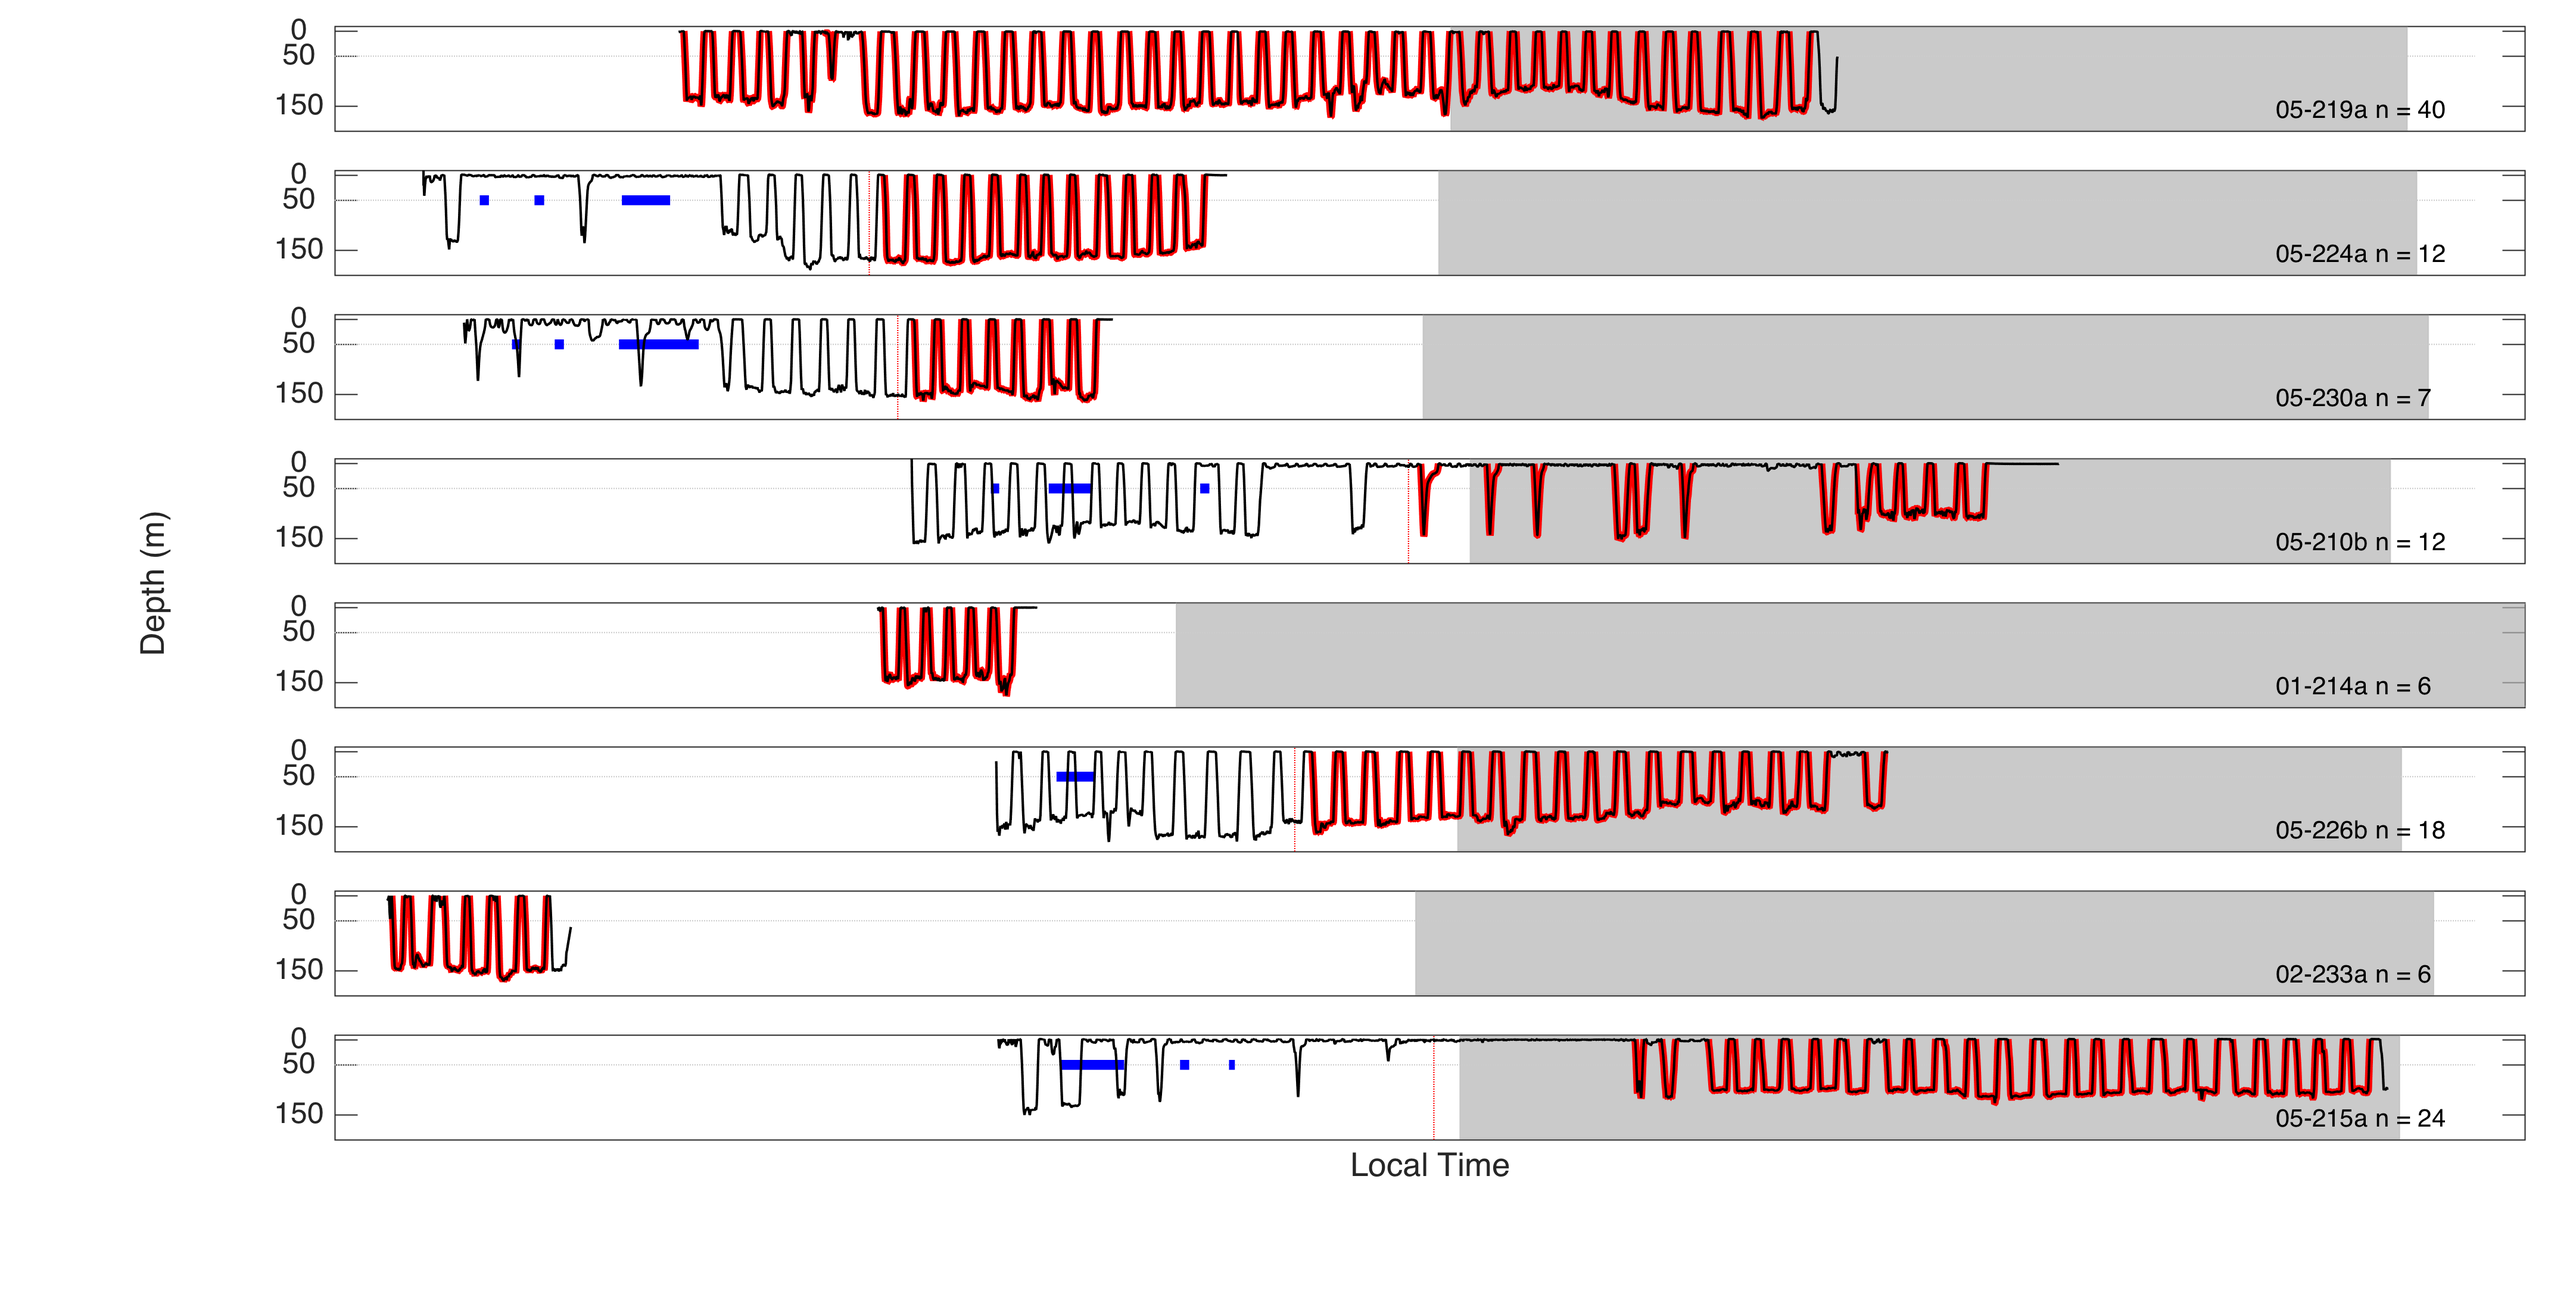
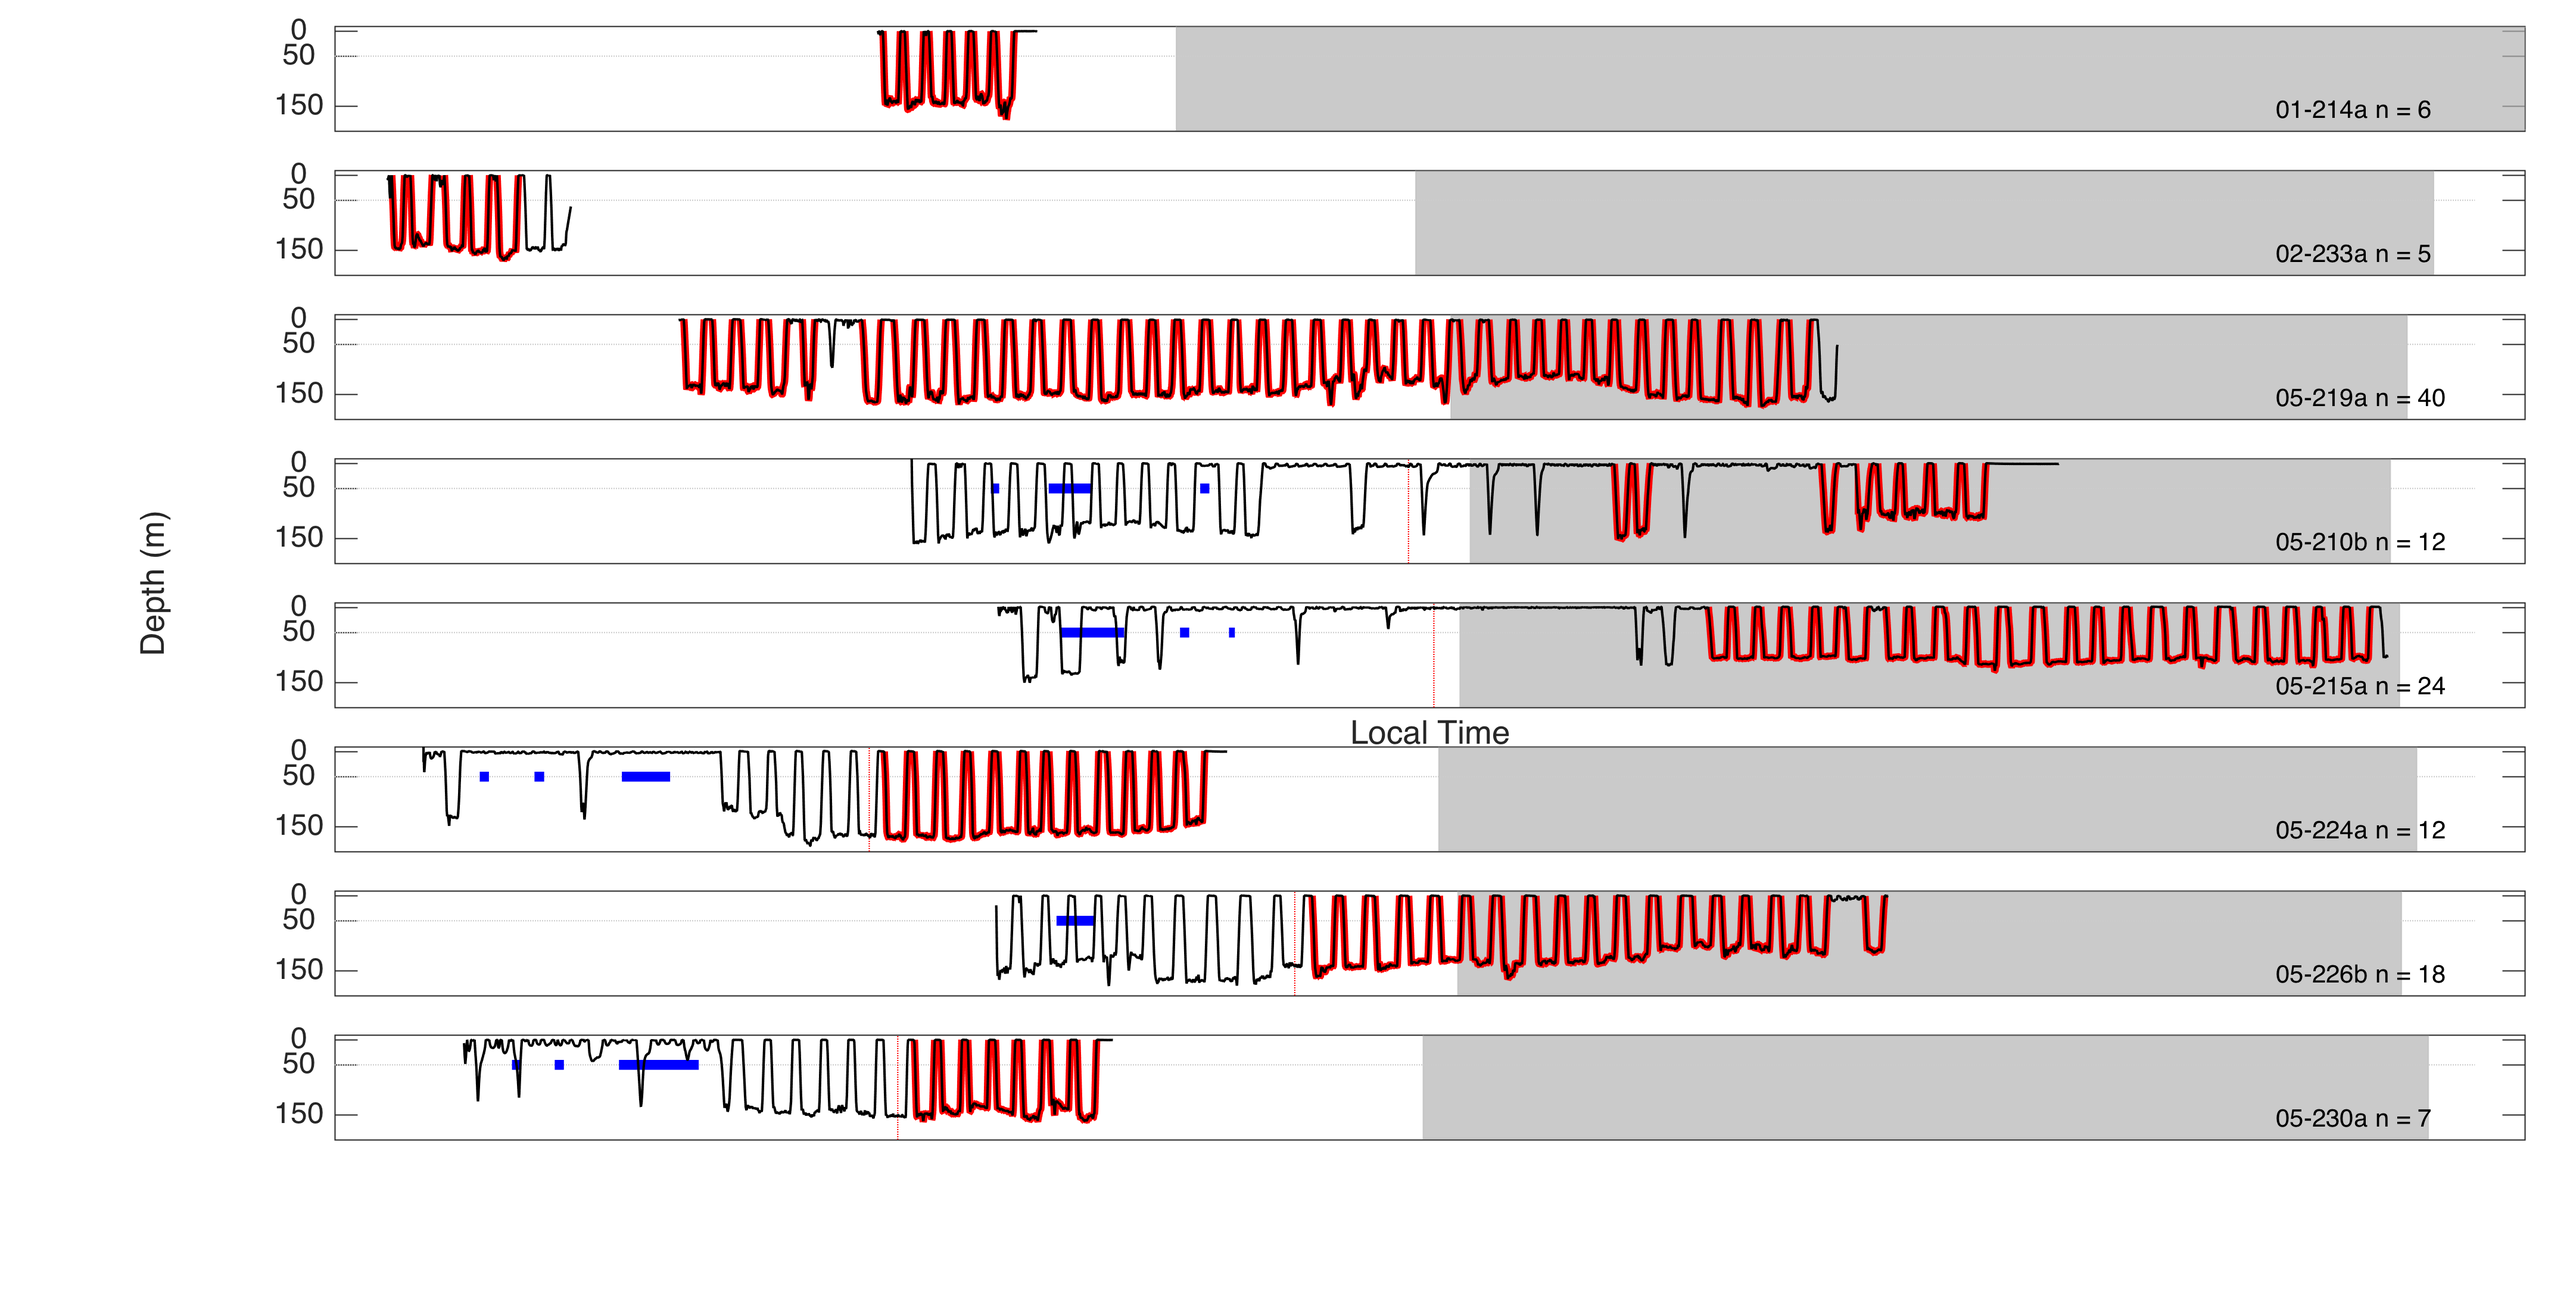
reorder figure to match table

diff --git a/NARW_plotAlldives.m b/NARW_plotAlldives.m
@@ -4,12 +4,13 @@ clear, close all, warning off
 load('NARW_foraging_tags')
 % 7 is playback start/end time; 000000 = no playbacks
 % 8 is analysis start time (2h after end last playback)
+% 9 is dives to analyze 
 %%
 allddur = nan(10,40); allnstops = nan(10,40);
 mnboutdur = nan(10,40);
 tagc = viridis(10); % color for tags
 %%
-for i = 1:length(tags)
+for i = 1:size(tags,1)
     tag = tags{i};
     loadprh(tag);
     
@@ -21,7 +22,7 @@ for i = 1:length(tags)
    
     % plot by time of day
     figure(100),
-    subplot('position',[0.13 1.01-(i*0.11) 0.85 0.08]), hold on, box on
+    subplot('position',[0.13 1.01-(tags{i,13}*0.11) 0.85 0.08]), hold on, box on
     UTC = tags{i,2}(4:end);
     % add sunrise and sunset
     [sun_rise,sun_set] = sunRiseSet(44.55,-66.4,-4,datestr(datenum(tags{i,2}(1:3))));
@@ -53,14 +54,16 @@ for i = 1:length(tags)
     % how many dives > 50 m
     T = finddives(p,fs,50,1);
     d2after = find(T(:,1) > astartcue/fs); % find T after start cue only 
+    if i == 7, d2after = d2after(1:end-1); end 
+    tags{i,9} = d2after; % store 
     ddur = T(:,2)-T(:,1); % calculate duration of all dives
     
     % put this here but only after astartcue 
     for j = d2after'
-    %         if ~isempty(dive(j).vperblock)
+            if ~isempty(dive(j).vperblock)
                 dcue = T(j,1):T(j,2); % time in seconds
                  plot((UTC(1)+UTC(2)/60+UTC(3)/3600)+(T(j,1):T(j,2))/3600,-p(round(dcue*fs)),'r','linewidth',3)
-    %         end
+           end
         end
     
     % plot actual dive profile on top 
@@ -69,6 +72,7 @@ for i = 1:length(tags)
     ylim([-200 10]), xlim([8.5 30.5])
     set(gca,'ytick',[-150 -50 0],'yticklabels',[150 50 0],'xtick',10:2:30,'xticklabels',[10:2:24 2:2:6])
     text(28,-160,regexprep(tag(3:end),'_','-'))
+    text(29,-160,['n = ' num2str(size(tags{i,9},1))])
     if i < length(tags), set(gca,'xtick',[]), end
     
     %%
@@ -85,7 +89,7 @@ for i = 1:length(tags)
     
     NARW_divepauseplot
     
-    %     for k = 1:size(T,1) % all dives on a tag
+         for k = tags{i,9}' % all dives in analysis 
     %         if isempty(dive(k).stops) == 0
     %             figure(11), subplot(2,2,1), hold on
     %             plot(ddur(k)/60,size(dive(k).stops,1),'o','color',tagc(i,:)) % color by tag
@@ -98,34 +102,34 @@ for i = 1:length(tags)
     %         end
     %     end
     %     %
-    %         if isempty(dive(k).btm) == 1 && sum(tag ~= 'eg05_210b') ~= 0 % if there's no bottom and if it's not dives 1-11 in this tag
-    %             % descent speed
-    %             phase_speed(k,1) = nanmean(dive(k).flowEst(round((T(k,1)+5:T(k,4))-T(k,1)+1)));
-    %             phase_pitch(k,1) = nanmean(rad2deg(pitch((T(k,1):T(k,4))*fs)));
-    %             % ascent speed
-    %             phase_speed(k,2) = nanmean(dive(k).flowEst(round((T(k,4):T(k,2)-10)-T(k,1))));
-    %             phase_pitch(k,2) = nanmean(rad2deg(pitch((T(k,4):T(k,2))*fs)));
-    %         end
-    %
-    %           if dive(k).btm > 1
-    %               % descent speed
-    %               phase_speed(k,1) = nanmean(dive(k).flowEst(5:dive(k).btm(1)));
-    %               phase_pitch(k,1) = mean(rad2deg(pitch(round(dcue(1:dive(k).btm(1))*fs))));
-    %               % ascent speed
-    %               if find(isinf(dive(k).flowEst),1,'last') < 10
-    %                   phase_speed(k,2) = nanmean(dive(k).flowEst(dive(k).btm(end):end));
-    %               else
-    %                   phase_speed(k,2) = nanmean(dive(k).flowEst(dive(k).btm(end):find(isinf(dive(k).flowEst(5:end)) == 1,1,'first')));
-    %               end
-    %               phase_pitch(k,2) = mean(rad2deg(pitch(round(dcue(dive(k).btm(end):end)*fs))));
-    %               % bottom speed
-    %               phase_speed(k,3) = nanmean(dive(k).flowEst(dive(k).btm));
-    %           end
-    %            F(k) = isempty(dive(k).btm); % store that
-    %     end
-    %     tags{i,7} = phase_speed;
-    %     tags{i,8} = phase_pitch;
-    %     tags{i,9} = F;
+            if isempty(dive(k).vperblock) == 1 
+                % descent speed
+                phase_speed(k,1) = nanmean(dive(k).flowEst(round((T(k,1)+5:T(k,4))-T(k,1)+1)));
+                phase_pitch(k,1) = nanmean(rad2deg(pitch((T(k,1):T(k,4))*fs)));
+                % ascent speed
+                phase_speed(k,2) = nanmean(dive(k).flowEst(round((T(k,4):T(k,2)-10)-T(k,1))));
+                phase_pitch(k,2) = nanmean(rad2deg(pitch((T(k,4):T(k,2))*fs)));
+            end
+    
+          if dive(k).vperblock > 1
+                  % descent speed
+                  phase_speed(k,1) = nanmean(dive(k).flowEst(5:dive(k).btm(1)));
+                  phase_pitch(k,1) = mean(rad2deg(pitch(round(dcue(1:dive(k).btm(1))*fs))));
+                  % ascent speed
+                  if find(isinf(dive(k).flowEst),1,'last') < 10
+                      phase_speed(k,2) = nanmean(dive(k).flowEst(dive(k).btm(end):end));
+                  else
+                      phase_speed(k,2) = nanmean(dive(k).flowEst(dive(k).btm(end):find(isinf(dive(k).flowEst(5:end)) == 1,1,'first')));
+                  end
+                  phase_pitch(k,2) = mean(rad2deg(pitch(round(dcue(dive(k).btm(end):end)*fs))));
+                  % bottom speed
+                  phase_speed(k,3) = nanmean(dive(k).flowEst(dive(k).btm));
+              end
+               F(k) = isempty(dive(k).vperblock); % store that
+        end
+         tags{i,10} = phase_speed;
+         tags{i,11} = phase_pitch;
+         tags{i,12} = F;
     
     %     figure(90), hold on
     %     plot(T(:,3),1./(ddur/3600),'o')
@@ -138,7 +142,7 @@ for i = 1:length(tags)
     %     plot(t,-p/100,'k')
     %
     %     % pause
-    %     save(['/Users/julievanderhoop/Dropbox (Personal)/tag/tagdata/' tag '_flowspeed.mat'],'dive','-append')
+         save(['/Users/julievanderhoop/Dropbox (Personal)/tag/tagdata/' tag '_flowspeed.mat'],'dive','-append')
     if i < length(tags)
         clear p ptrack pitch ph Aw Mw fs phase_speed phase_pitch F % to remove carry-over of variables
     end
@@ -176,15 +180,20 @@ print('NARW_boutregress.png','-dpng','-r300')
 return
 
 % get phase info from structure
-allphases = [];
-for i = 1:length(tags)
-    for j = 1:size(tags{i,7},1)
-        allphases(end+1,:) = tags{i,7}(j,:);
+allphase_speed = []; allphase_pitch = []; allF = []; 
+for i = 1:size(tags,1)
+    for j = 1:size(tags{i,10},1)
+        allphase_speed(end+1,:) = tags{i,10}(j,:);
+        allphase_pitch(end+1,:) = tags{i,11}(j,:); 
+        allF(end+1) = tags{i,12}(j); % this one isn't working
     end
 end
 % replace anything
-allphases(isinf(allphases)) = NaN;
-std(allphases(allphases(:,3) > 0,3))
+allphase_speed(allphase_speed == 0) = NaN; 
+allphase_pitch(allphase_pitch == 0) = NaN; 
+% nanmean(allphase_pitch(allF == 1,:))
+% nanmean(allphase_pitch(allF == 0,:))
+
 
 %% stats
 lm1 = fitlm(allddur(~isnan(allddur)),allnstops(~isnan(allnstops)))
